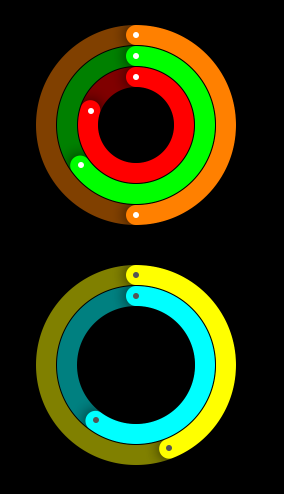
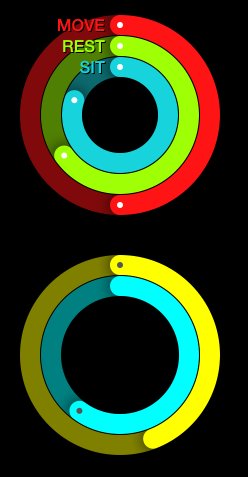
Added text property

diff --git a/Classes/ESArcProgressView.m b/Classes/ESArcProgressView.m
@@ -12,7 +12,7 @@
 @implementation ESArcProgressView {
     UIColor *_customBackgroundColor;
 }
-@synthesize color=_color,showShadow=_showShadow,showCenterDot,progress=_percentage,lineWidth=_lineWidth,multipleArcProgressView,dotColor=_dotColor,centerDotStyle=_centerDotStyle;
+@synthesize color=_color,showShadow=_showShadow,showCenterDot,progress=_percentage,lineWidth=_lineWidth,multipleArcProgressView,dotColor=_dotColor,centerDotStyle=_centerDotStyle,text=_text;
 
 - (instancetype)initWithCoder:(NSCoder *)aDecoder
 {
@@ -99,6 +99,12 @@
     [self setNeedsDisplay];
 }
 
+- (void)setText:(NSString *)aText
+{
+    _text = [aText copy];
+    [self setNeedsDisplay];
+}
+
 #pragma mark - UIView
 // ____________________________________________________________________________________________________________________
 
@@ -122,7 +128,6 @@
     const CGFloat perc = self.progress;
     const CGFloat lineRadius = self.lineWidth / 2;
     const CGFloat midDotRadius = fmaxf(1.0f, lineRadius * 0.3);
-    const UIColor *color = self.color;
     
     // ------------------------------------------------
     
@@ -137,7 +142,7 @@
     // Draw background
     UIColor *bgColor = _customBackgroundColor;
     if (bgColor == nil) {
-        bgColor = [color colorWithAlphaComponent:.5];
+        bgColor = [self.color colorWithAlphaComponent:.5];
     }
     CGContextSetStrokeColorWithColor(ctx, bgColor.CGColor);
     CGMutablePathRef path = CGPathCreateMutable();
@@ -148,11 +153,13 @@
         return;
     }
     
+    CGContextSaveGState(ctx);
     // Draw mask
     path = CGPathCreateMutable();
     CGPathAddEllipseInRect(path, nil, rect);
     CGPathAddEllipseInRect(path, nil, CGRectMake(lineRadius * 2, lineRadius * 2, (innerRadius - lineRadius) * 2, (innerRadius - lineRadius) * 2));
     CGContextAddPath(ctx, path);
+    CGContextClosePath(ctx);
     CGContextEOClip(ctx);
     
     // Shadow
@@ -162,13 +169,34 @@
     
     // Draw foreground
     path = CGPathCreateMutable();
-    CGContextSetStrokeColorWithColor(ctx, color.CGColor);
+    CGContextSetStrokeColorWithColor(ctx, self.color.CGColor);
     CGPathAddRelativeArc(path, NULL, center.x, center.y, innerRadius, -(M_PI / 2), delta);
     CGContextAddPath(ctx, path);
     CGContextStrokePath(ctx);
+    CGContextRestoreGState(ctx);
+    
+    if (self.text.length > 0) {
+        NSMutableAttributedString *attstr = [[NSMutableAttributedString alloc] initWithString:self.text];
+        [attstr beginEditing];
+        NSShadow *shadow = [[NSShadow alloc] init];
+        [shadow setShadowBlurRadius:0];
+        [shadow setShadowColor:[UIColor blackColor]];
+        [shadow setShadowOffset:CGSizeMake(1, 1)];
+        
+        NSMutableParagraphStyle *paragraph = [[NSMutableParagraphStyle alloc] init];
+        [paragraph setAlignment:NSTextAlignmentRight];
+        [attstr addAttributes:@{
+                                NSFontAttributeName: [UIFont boldSystemFontOfSize:self.lineWidth / 1.2f],
+                                NSShadowAttributeName: shadow,
+                                NSParagraphStyleAttributeName: paragraph,
+                                NSForegroundColorAttributeName: self.color
+                                } range:NSMakeRange(0, self.text.length)];
+        [attstr endEditing];
+        [attstr drawInRect:CGRectMake(0, 0, center.x - 15, self.lineWidth)];
+    }
     
     // Draw white begin / end dots
-    if (perc == 1 || self.centerDotStyle == ESArcProgressCenterDotStyleNone) {
+    if (self.centerDotStyle == ESArcProgressCenterDotStyleNone) {
         return;
     }
     
@@ -180,7 +208,7 @@
         CGContextAddEllipseInRect(ctx, CGRectMake(center.x - midDotRadius, center.y - innerRadius - midDotRadius, midDotRadius * 2, midDotRadius * 2));
     }
     
-    if (self.centerDotStyle == ESArcProgressCenterDotStyleBeginAndEnd || self.centerDotStyle == ESArcProgressCenterDotStyleEnd) {
+    if ((self.centerDotStyle == ESArcProgressCenterDotStyleBeginAndEnd && perc < 1.0f) || self.centerDotStyle == ESArcProgressCenterDotStyleEnd) {
         CGFloat w = sinf(delta) * innerRadius;
         CGFloat h = cosf(delta) * innerRadius;
         CGFloat x = center.x + w;

diff --git a/Classes/ESArcProgressView.h b/Classes/ESArcProgressView.h
@@ -77,6 +77,17 @@ typedef NS_ENUM(NSInteger, ESArcProgressCenterDotStyle) {
 /**
  *	@author Bas van Kuijck <bas@e-sites.nl>
  *
+ *	The label to show in the progress view
+ *  @note Default = nil
+ *
+ *	@since 1.2
+ *  @date 06/03/2015
+ */
+@property (nonatomic, copy) NSString *text;
+
+/**
+ *	@author Bas van Kuijck <bas@e-sites.nl>
+ *
  *	Should the progress view show a small center dot
  *  @deprecated Use [ESArcProgressView centerDotStyle] instead
  *  @note Default = YES

diff --git a/README.md b/README.md
@@ -29,16 +29,19 @@ ESMultipleArcProgressView *v = [[ESMultipleArcProgressView alloc] initWithFrame:
     
 ESArcProgressView *pv = [[ESArcProgressView alloc] init];
 [pv setProgress:0.5];
+[pv setText:@"RUN"];
 [pv setColor:[UIColor orangeColor]];
 [v addArcProgressView:pv];
     
 pv = [[ESArcProgressView alloc] init];
 [pv setProgress:0.65];
+[pv setText:@"WALK"];
 [pv setColor:[UIColor greenColor]];
 [v addArcProgressView:pv];
     
 pv = [[ESArcProgressView alloc] init];
 [pv setProgress:0.8];
+[pv setText:@"REST"];
 [pv setColor:[UIColor redColor]];
 [v addArcProgressView:pv];
 ```
@@ -76,7 +79,8 @@ UIImage *image = [pv generateImage];
 | `showShadow`	| BOOL | Should the line have a drop shadow | YES
 | `centerDotStyle`	| ESArcProgress-CenterDotStyle | Center dot style placement | ESArcProgress-CenterDotStyle-BeginAndEnd
 | `progress`		| CGFloat | The progress in percentage (from 0.0 - 1.0) | 0.0
-| `multipleArcProgressView` | ESMultipleArc-ProgressView | The group view this instance belongs to  | nil
+| `text`			| NSString | Show a text label next to the progress view | `nil`
+| `multipleArcProgressView` | ESMultipleArc-ProgressView | The group view this instance belongs to  | `nil`
 
 ### ESArcProgressCenterDotStyle
 ```objc
